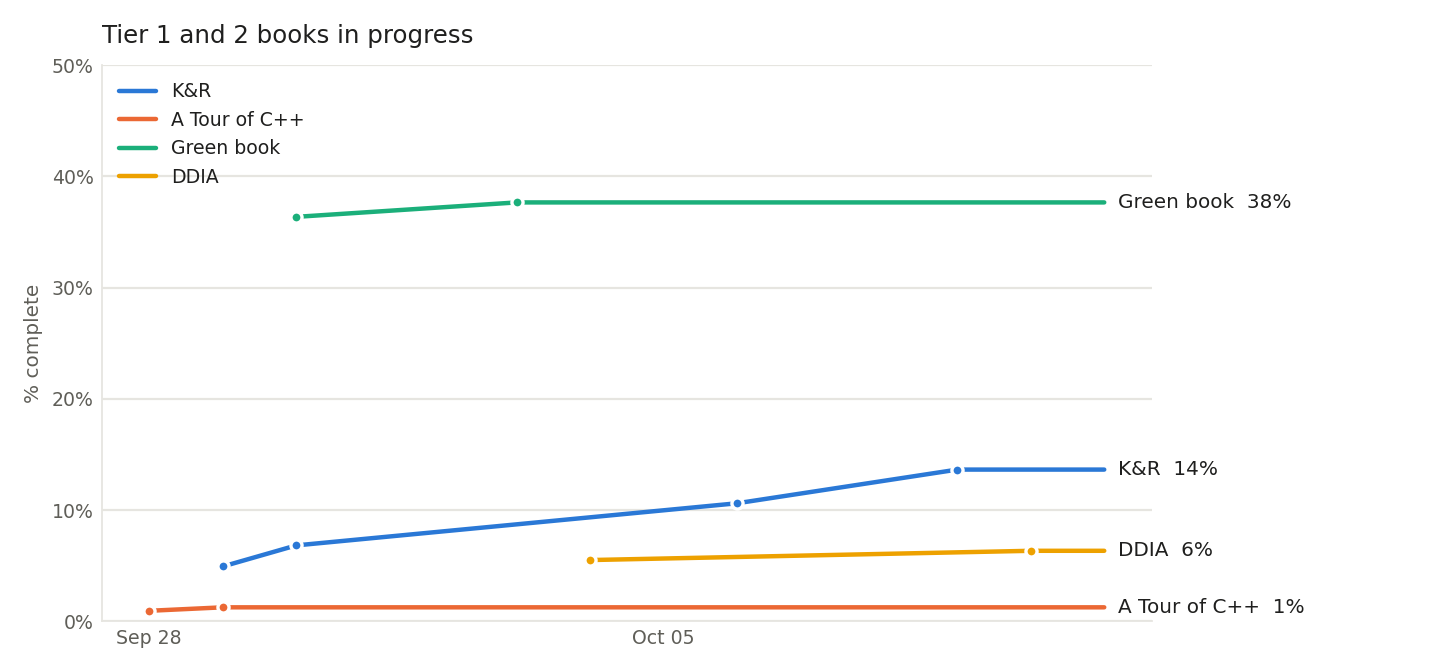
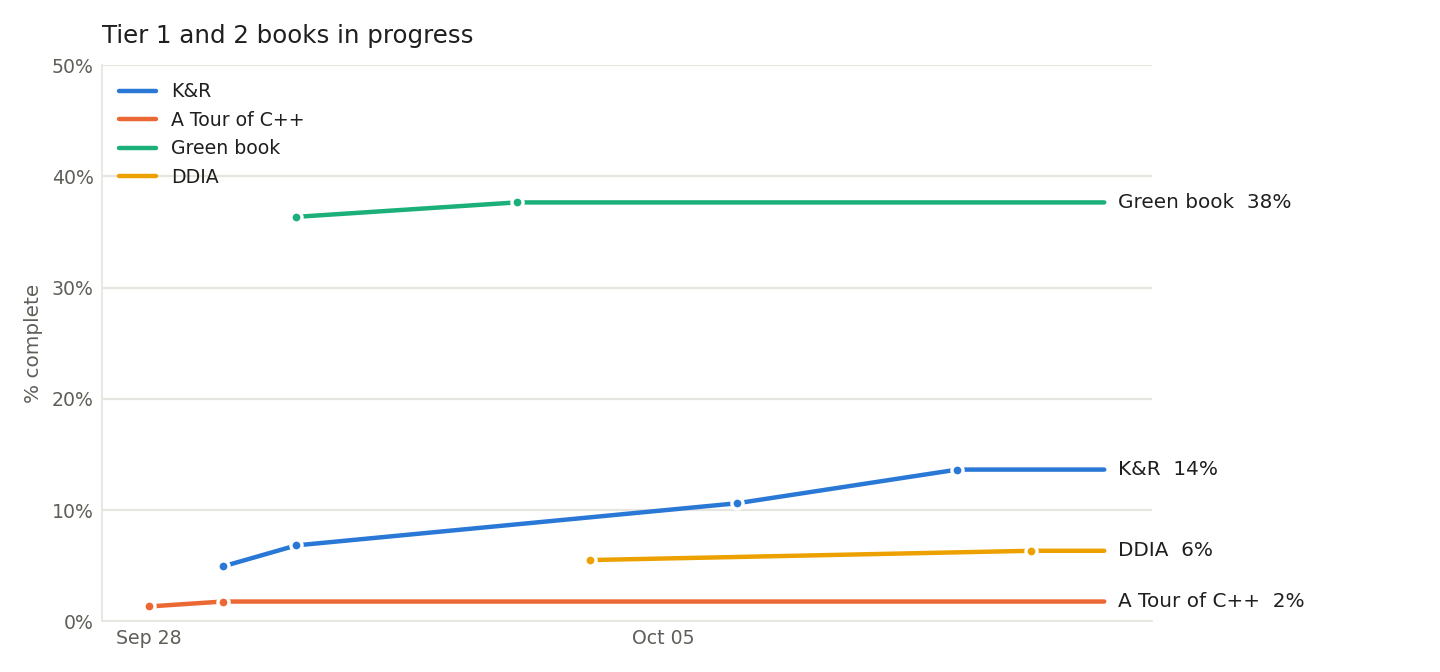
Fix A Tour of C++ page count to 226

Changed region(s): [[0.0938, 0.875, 0.9062, 0.9375]]

diff --git a/README.md b/README.md
@@ -16,7 +16,7 @@ Personal reading list across three tracks. Each track lives in its own file unde
 | Book | Progress | | Unit |
 |---|---|---|---|
 | K&R | `███░░░░░░░░░░░░░░░░░` | 14% | 36 of 264 pages |
-| A Tour of C++ | `░░░░░░░░░░░░░░░░░░░░` | 1% | 4 of 320 pages |
+| A Tour of C++ | `░░░░░░░░░░░░░░░░░░░░` | 2% | 4 of 226 pages |
 | Green book | `████████░░░░░░░░░░░░` | 38% | 29 of 77 problems |
 | DDIA | `█░░░░░░░░░░░░░░░░░░░` | 6% | 38 of 600 pages |
 <!-- progress:end -->
